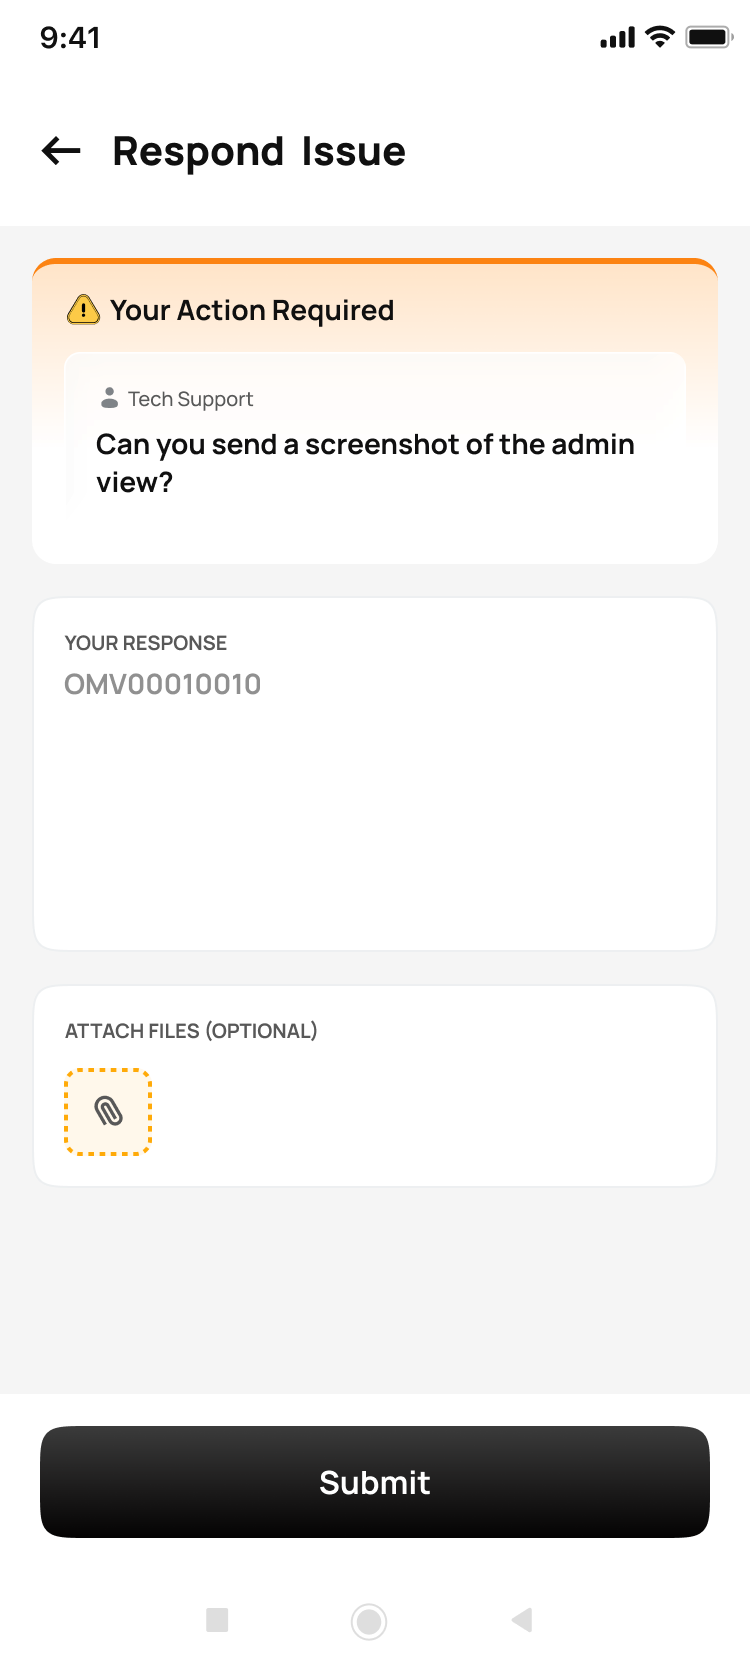
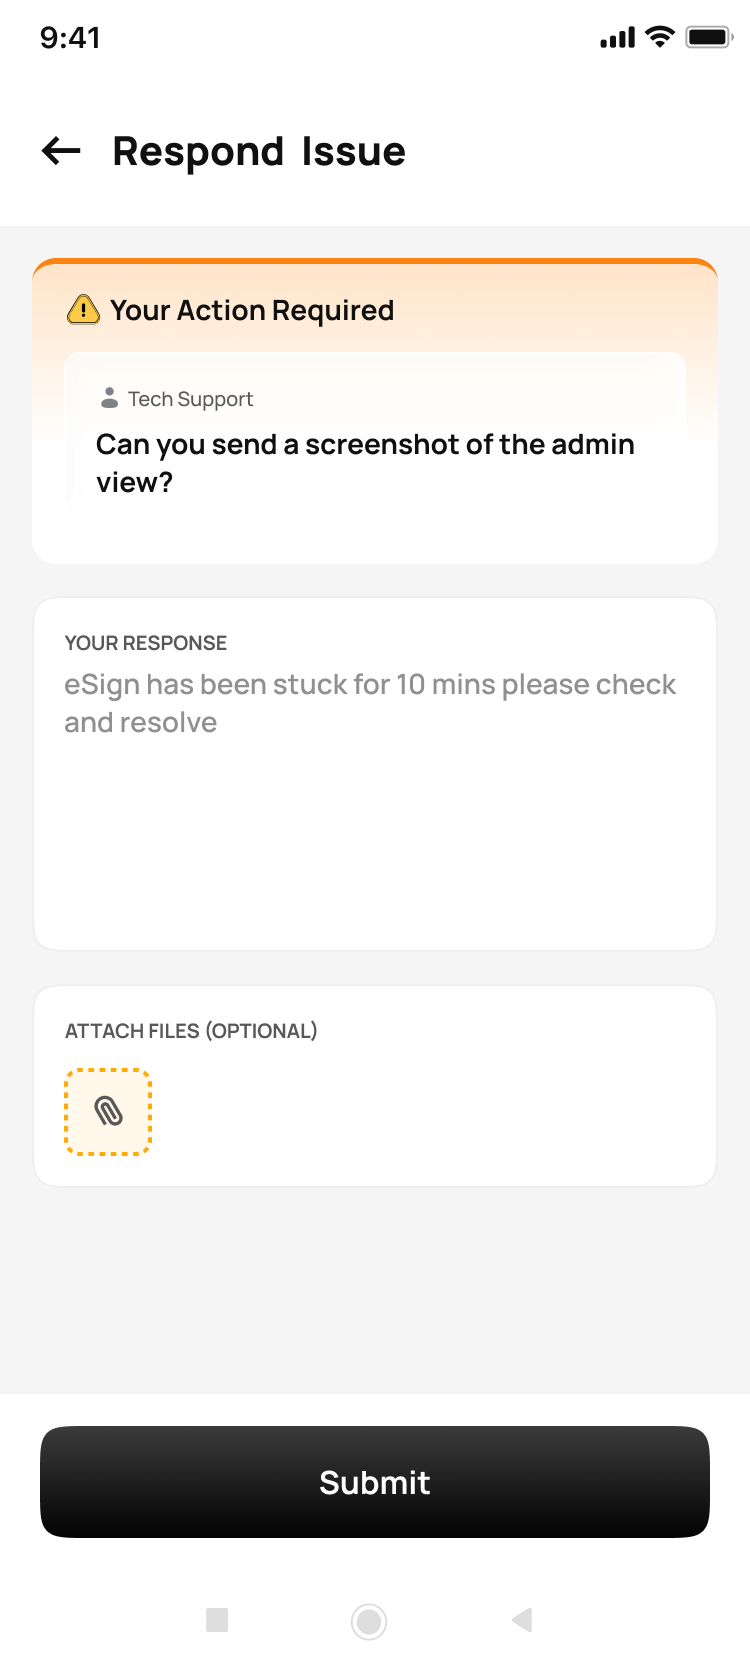
Echo: replace both Respond Issue screens with the live Figma frames
s14/s15 were exported from 1644:22401 / 1644:22439, which showed the
OMV00010010 placeholder in the response field. Those review sections have
been deleted from the Figma file; the canonical frames are 1:1794 (empty
response) and 12:2642 (filled, two attachments) under section 1:887. Both
reporting flows share these files, so both are updated.

walkthrough.md notes which node IDs are now dangling.

Changed region(s): [[0.092, 0.4048, 0.8893, 0.4359]]

diff --git a/walkthrough.md b/walkthrough.md
@@ -1,3 +1,9 @@
+> Node IDs marked `1644:*`, `1646:*` and `1648:*` were the duplicated review
+> sections; those sections have since been deleted from the Figma file. The
+> canonical flows now live under `1:887` (details page) and `1:1932` (home).
+> The respond screens below are rebound to their live IDs; the rest still
+> point at the deleted set and need re-binding if traceability matters.
+
 ## A. Report from details page
 
 Section `1644:21393` — 18 frames, read in ascending x.
@@ -16,8 +22,8 @@ Section `1644:21393` — 18 frames, read in ascending x.
 11. `1644:22005` — Add an attachment with your message if you want, and send
 12. `1644:22153` — Once you send a nudge, wait 5 minutes before you can nudge again
 13. `1644:22224` — If the team asks for more details or proof, tap <b>Respond Issue</b>
-14. `1644:22401` — Write your response in the field and proceed
-15. `1644:22439` — <b>Attach files (optional)</b> — add a file if it helps, then tap <b>Submit</b>
+14. `1:1794` — Write your response in the field and proceed
+15. `12:2642` — <b>Attach files (optional)</b> — add a file if it helps, then tap <b>Submit</b>
 16. `1644:22531` — Once you respond, the team will check your response
 17. `1644:22066` — Status goes back to <b>Being looked at</b> — wait for the team to resolve
 18. `1644:22620` — You will see <b>Issue Resolved</b> when the team resolves the issue
@@ -40,8 +46,8 @@ Section `1644:30833` — 18 frames, read in ascending x.
 11. `1646:34249` — Add an attachment with your message if you want, and send
 12. `1646:34310` — Once you send a nudge, wait 5 minutes before you can nudge again
 13. `1646:34381` — If the team asks for more details or proof, tap <b>Respond Issue</b>
-14. `1646:34540` — Write your response in the field and proceed
-15. `1646:34578` — <b>Attach files (optional)</b> — add a file if it helps, then tap <b>Submit</b>
+14. `1:1794` — Write your response in the field and proceed
+15. `12:2642` — <b>Attach files (optional)</b> — add a file if it helps, then tap <b>Submit</b>
 16. `1646:34670` — Once you respond, the team will check your response
 17. `1646:34453` — Status goes back to <b>Being looked at</b> — wait for the team to resolve
 18. `1646:34759` — You will see <b>Issue Resolved</b> when the team resolves the issue
